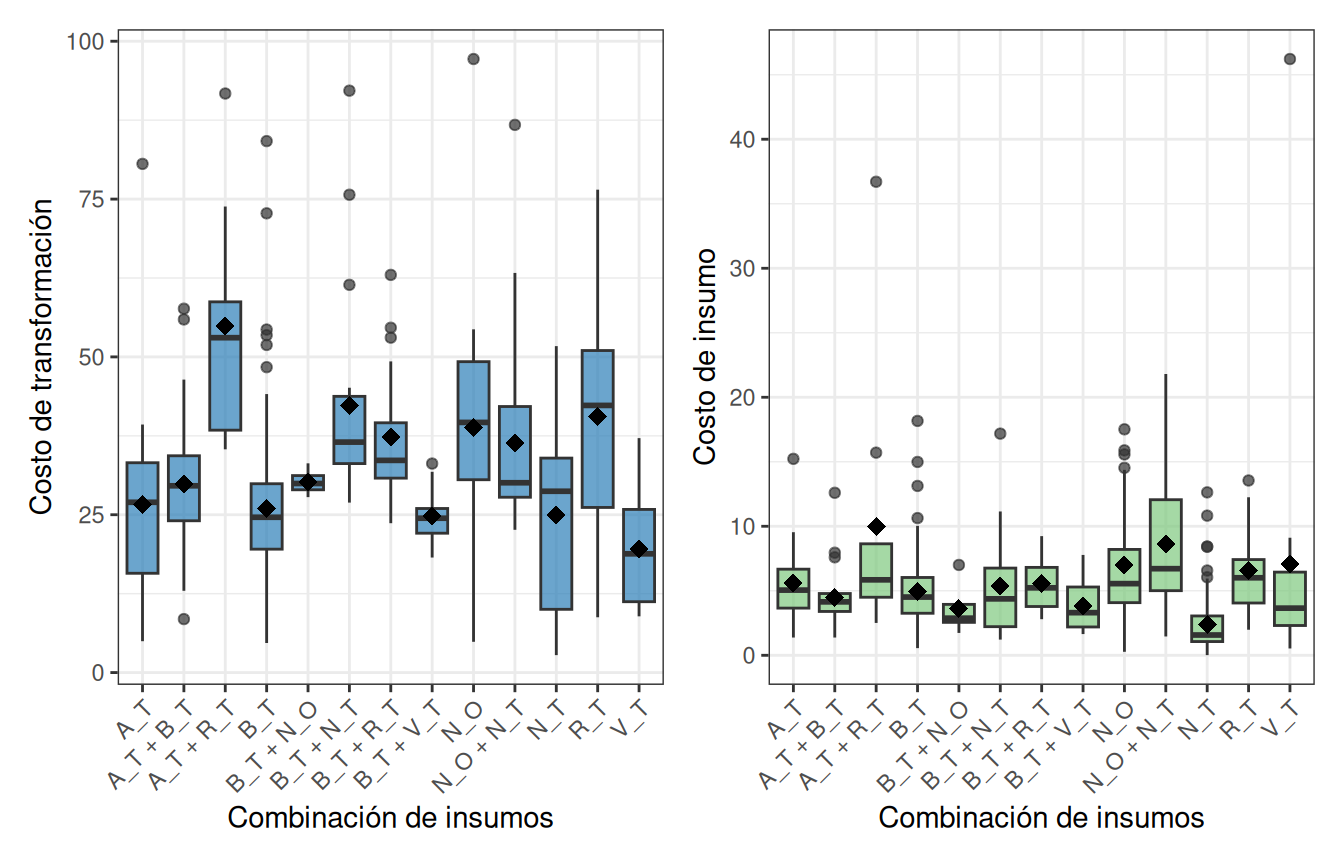
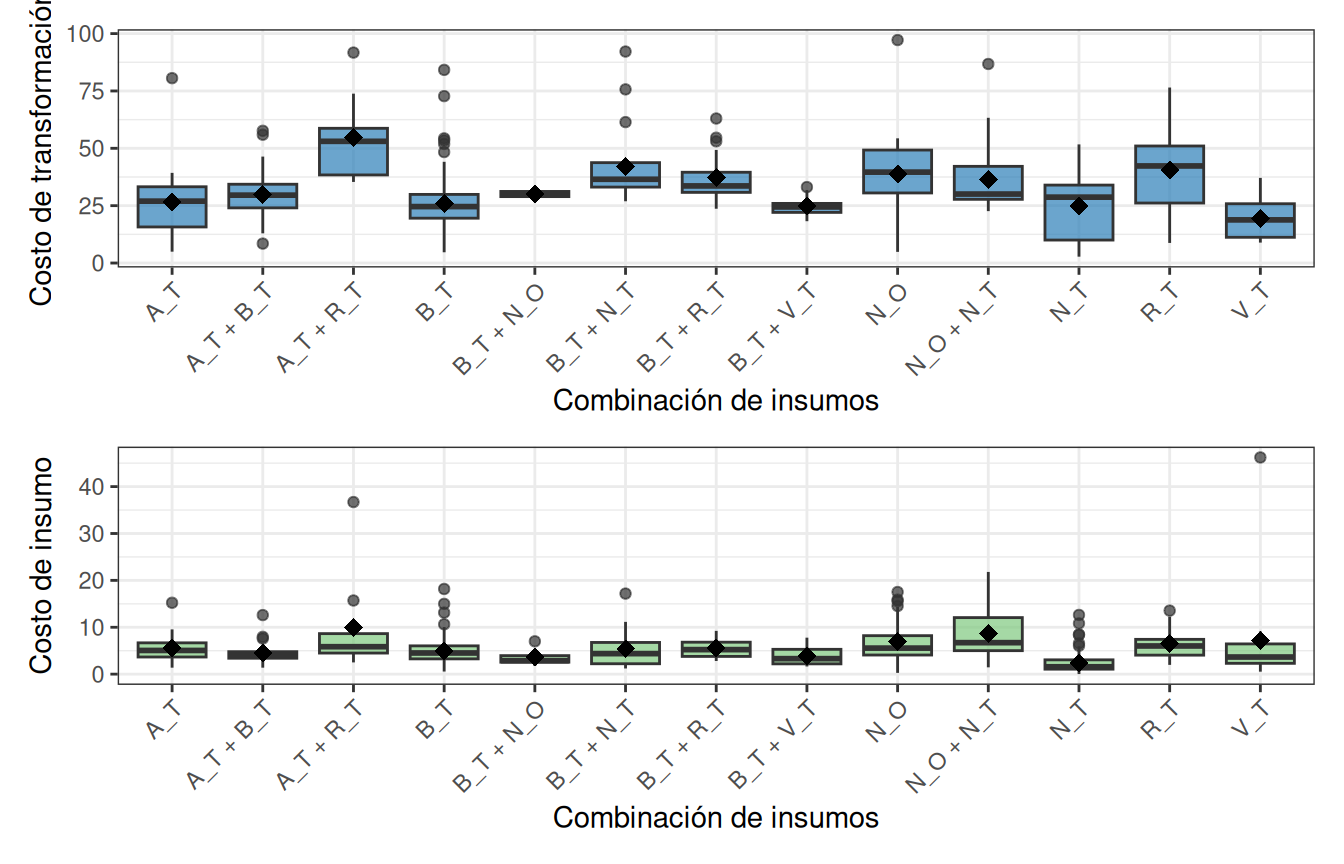
martes

diff --git a/docs/eda.html b/docs/eda.html
@@ -4057,7 +4057,7 @@ B_T + N_O
 <span id="cb50-16"><a href="eda.html#cb50-16" tabindex="-1"></a>  <span class="fu">theme_bw</span>() <span class="sc">+</span></span>
 <span id="cb50-17"><a href="eda.html#cb50-17" tabindex="-1"></a>  <span class="fu">theme</span>(<span class="at">axis.text.x =</span> <span class="fu">element_text</span>(<span class="at">angle =</span> <span class="dv">45</span>, <span class="at">hjust =</span> <span class="dv">1</span>))</span>
 <span id="cb50-18"><a href="eda.html#cb50-18" tabindex="-1"></a></span>
-<span id="cb50-19"><a href="eda.html#cb50-19" tabindex="-1"></a>  box_comb_insumos_ct  <span class="sc">+</span> box_comb_insumos_ci</span></code></pre></div>
+<span id="cb50-19"><a href="eda.html#cb50-19" tabindex="-1"></a>  box_comb_insumos_ct  <span class="sc">/</span> box_comb_insumos_ci</span></code></pre></div>
 <p><img src="libro-maestria-estadistica-aplicada_files/figure-html/box-insumo-comb-1.png" alt="" width="90%" style="display: block; margin: auto;" /></p>
 <p><strong>Ejercicio.</strong> Replicar el análisis bivariado anterior para las variables categóricas <code>categoria_producto</code>, <code>num_insumos</code>, <code>insumo_1</code> e <code>insumo_2</code>, e interpretar los patrones observados con respecto a las tres variables respuesta.</p>
 </div>
